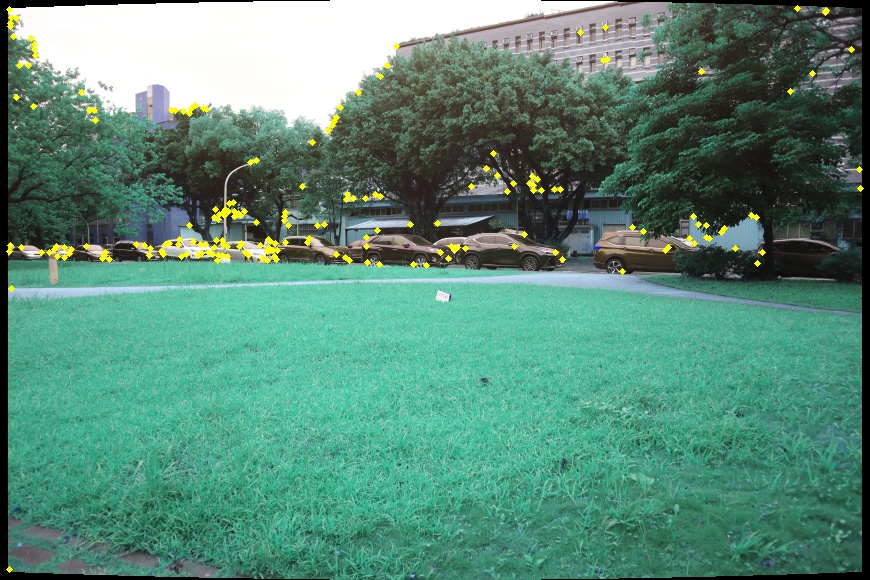
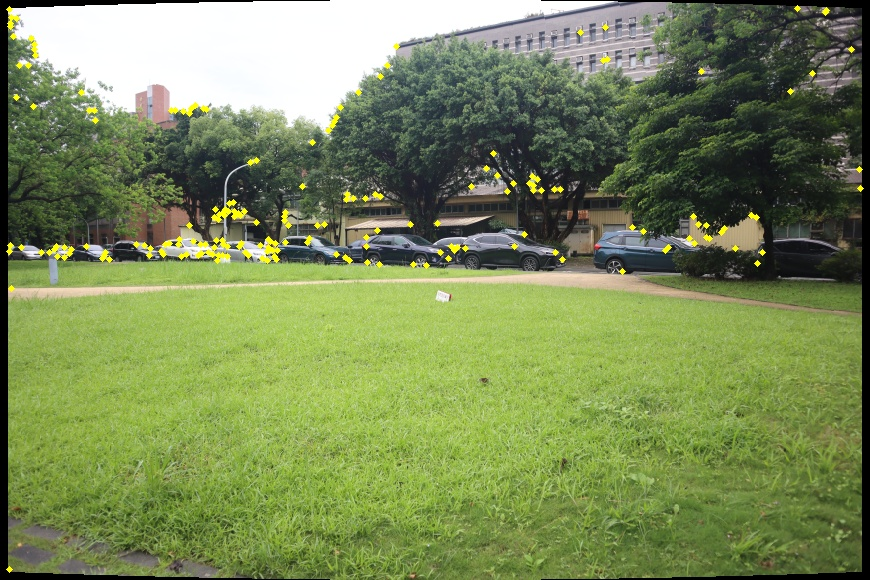
Fix visualization color.

diff --git a/util.py b/util.py
@@ -24,6 +24,7 @@ class Matching():
             use_ransac_homo: bool=False,
             ransac_in_thres: int=5,
             visualization: bool=True,
+            visual_path: str='test_data/visualization/'
         ) -> None:
         self.n_images = images.shape[0]
         self.h = images.shape[1]
@@ -38,9 +39,12 @@ class Matching():
         self._match_dist_ratio = match_dist_ratio
         self._n_iter = n_iter
         self._ransac_in_thres = ransac_in_thres
+        self.use_ransac_homo = use_ransac_homo
 
         self.visualization = visualization
-        self.use_ransac_homo = use_ransac_homo
+        self.visual_path = visual_path
+        os.makedirs(self.visual_path, exist_ok = True)
+
         self.images = self.warping(images) # shape: (17, 512, 384, 3)
 
     def warping(self, images):
@@ -60,7 +64,7 @@ class Matching():
         
         # Visualization
         if self.visualization:
-            plot_images(warped_images[:5], './test_data/visualization/warp_images.jpg')
+            plot_images(warped_images[:5], os.path.join(self.visual_path, 'warp_images.jpg'))
 
         return warped_images
 
@@ -106,8 +110,8 @@ class Matching():
             descriptor_list.append(descriptors)
         
         if self.visualization:
-            plot_features(self.images[0], feat_point_list[0], './test_data/visualization/feature_points.jpg')
-            plot_orientations(self.images[0], feat_point_list[0], orientation_list[0], './test_data/visualization/feature_orientations.jpg')
+            plot_features(self.images[0], feat_point_list[0], os.path.join(self.visual_path, 'feature_points.jpg'))
+            plot_orientations(self.images[0], feat_point_list[0], orientation_list[0], os.path.join(self.visual_path, 'feature_orientations.jpg'))
 
         return feat_point_list, descriptor_list
     
@@ -166,7 +170,7 @@ class Matching():
                 coords_2.append(feat_points_2[j1])
         
         if self.visualization:
-            plot_feature_match(image_1, coords_1, image_2, coords_2, './test_data/visualization/feature_match.jpg')
+            plot_feature_match(image_1, coords_1, image_2, coords_2, os.path.join(self.visual_path, 'feature_match.jpg'))
 
         return coords_1, coords_2
 
@@ -477,14 +481,10 @@ class Matching():
         if self.use_ransac_homo:
             w_offset = 0
             H = np.identity(3)
-            i = 0
+            homomats = shifts
             for image, Hi in tqdm(zip(self.images[1: ], homomats), total=len(homomats)):
                 H = H @ Hi
                 panorama, w_offset = self._blend_two_images(image, panorama.copy(), H, w_offset)
-                
-                i += 1
-                if self.visualization:
-                    cv2.imwrite(f'./test_data/visualization/panorama_{i}.png', panorama)
         else:
             # Adjust shifts
             shift_sums = np.ones_like(shifts) * shifts[0]
@@ -495,13 +495,9 @@ class Matching():
 
             # Stitching
             offset = np.array([w, 0]).astype(int)  # (w_offset, h_offset)
-            i = 0
+
             for image, shift in tqdm(zip(self.images[1: ], shift_sums), total=len(shift_sums)):
                 panorama, offset = self._blend_two_images_shift(image, panorama.copy(), shift, offset=offset)
-
-                i += 1
-                if self.visualization:
-                    cv2.imwrite(f'./test_data/visualization/panorama_{i}.png', panorama)
 
         return panorama
     

diff --git a/main.py b/main.py
@@ -14,7 +14,6 @@ def parse_arguments():
     parser.add_argument('--root', type=str, default='images')
     parser.add_argument('--result_path', type=str, default='../result')
     parser.add_argument("--focal_len", type=float, default=1800)
-    parser.add_argument('--compute_homomat', action='store_true')
     args = parser.parse_args()
     return args
 
@@ -32,6 +31,7 @@ def load_images(root):
 
     images = []
     for i in range(19):
+        if i == 15: continue
         image_path = root + f"/IMG_0{103+i}.JPG"
         image = cv2.imread(image_path)
         image = cv2.resize(image, (870, 580), interpolation=cv2.INTER_AREA)
@@ -52,8 +52,7 @@ def main(args):
     print(images.shape)
     os.makedirs(args.result_path, exist_ok = True)
     
-    print(f'args.compute_homomat: {args.compute_homomat}')
-    match = Matching(images=images, focal_len=args.focal_len, use_ransac_homo=args.compute_homomat)
+    match = Matching(images=images, focal_len=args.focal_len, use_ransac_homo=False)
     
     # feature detection:
     feat_point_list, descriptor_list = match.detection()

diff --git a/plot.py b/plot.py
@@ -16,7 +16,7 @@ def plot_images(
     
     for i, image in enumerate(images):
         plt.subplot(1, n_col, i + 1)
-        img = plt.imshow(image)
+        img = plt.imshow(image[:, :, ::-1])
         if title != None:
             plt.title(title)
         plt.axis('off')
@@ -30,7 +30,7 @@ def plot_features(
     feat_points: np.array,
     save_path: str,
 ) -> None: 
-    img = np.copy(image)
+    img = np.copy(image[:, :, ::-1])
 
     for feat_pt in feat_points:
         fp_x, fp_y = feat_pt[0], feat_pt[1]
@@ -61,7 +61,7 @@ def plot_orientations(
         7: (1, 1),
     }
 
-    img = np.copy(image)
+    img = np.copy(image[:, :, ::-1])
     h, w = bins.shape
 
     for feat_pt in feat_points:
@@ -93,4 +93,4 @@ def plot_feature_match(
 
         cv2.line(img, feat_pt1, feat_pt2, color=(0, 0, 255), thickness=1)
     
-    cv2.imwrite(save_path, img)
+    cv2.imwrite(save_path, img[:, :, ::-1])
